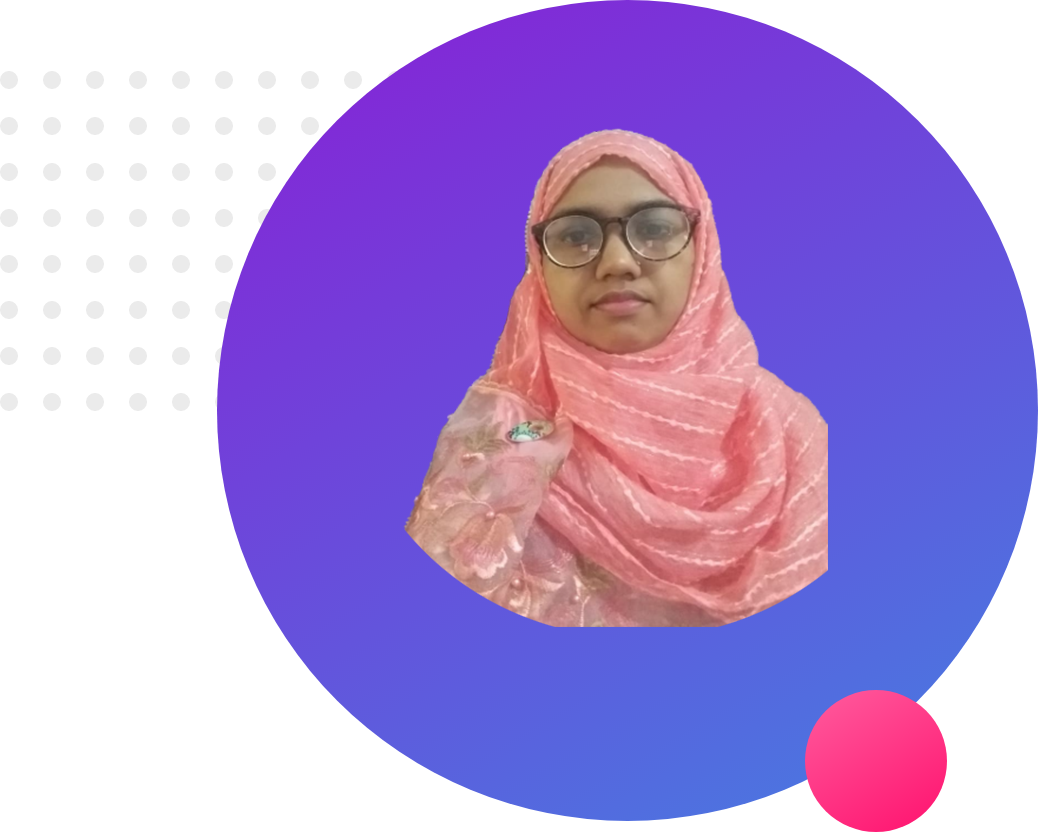
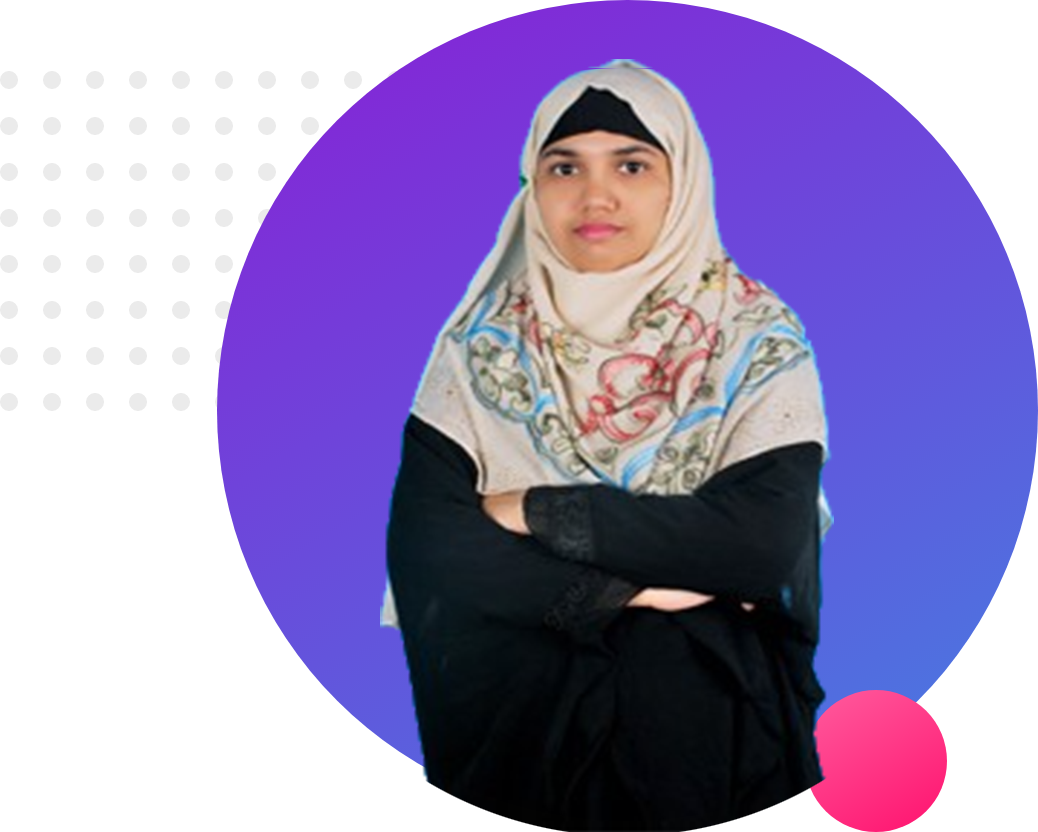
new image

Changed region(s): [[0.3391, 0.0625, 0.8015, 1.0]]

diff --git a/index.html b/index.html
@@ -12,17 +12,17 @@
     <section class="header-area">
         <div class="half-width">
             <h2>Hello I'm</h2>
-            <h1>Jack Smith</h1>
+            <h1>Nasreen Akter</h1>
             <p>Lorem ipsum, dolor sit amet consectetur adipisicing elit. Blanditiis rem necessitatibus excepturi.</p>
             <a class="hire-link" href="#">hire me</a>
         </div>
         <div class="half-width">
-            <img src="images/peter.png" alt="peter">
+            <img src="images/mine.png" alt="peter">
         </div>
     </section>
     <section class="biography-area">
         <div class="half-width">
-            <img src="images/peter_dream.png" alt="peter">
+            <img src="images/12.png" alt="peter">
         </div>
         <div class="half-width biography">
             <h3>Biography</h3>
